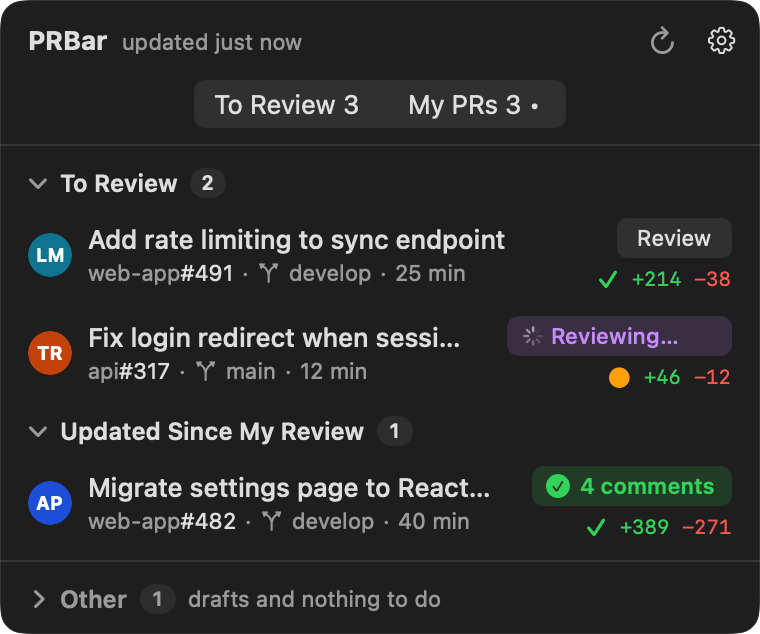
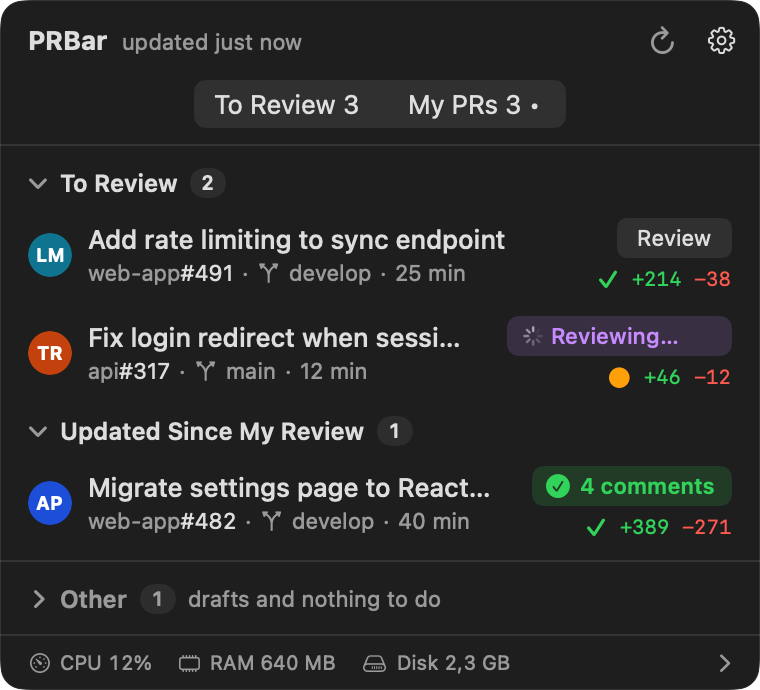
Capture the resources footer and PRBar Activity

diff --git a/Sources/PRBar/Snapshots/SnapshotFixtures.swift b/Sources/PRBar/Snapshots/SnapshotFixtures.swift
@@ -636,3 +636,42 @@ extension SnapshotFixtures {
         return session
     }
 }
+
+// MARK: - Recursos (spec I)
+
+extension SnapshotFixtures {
+    private static let megabyte: UInt64 = 1_048_576
+
+    /// El pie del popover y PRBar Activity: CPU 12 %, RAM 640 MB, un review corriendo (claude y git).
+    var resourceUsage: ResourceUsage {
+        let review = ProcessActivity.review("acme/api#317")
+        let processes = [
+            ProcessUsage(pid: 501, name: "PRBar", activity: nil, cpuPercent: 2, memoryBytes: 180 * Self.megabyte,
+                         startedAt: date(days: -1), isApp: true),
+            ProcessUsage(pid: 9123, name: "claude", activity: review, cpuPercent: 9, memoryBytes: 410 * Self.megabyte,
+                         startedAt: date(minutes: -3), isApp: false),
+            ProcessUsage(pid: 9188, name: "git", activity: review, cpuPercent: 1, memoryBytes: 50 * Self.megabyte,
+                         startedAt: date(minutes: -3), isApp: false),
+        ]
+        return ResourceUsage(cpuPercent: 12, memoryBytes: 640 * Self.megabyte, processes: processes, sampledAt: now)
+    }
+
+    /// 2,3 GB: worktrees 1,1 GB (acme/api activo, acme/web-app huérfano), updater 900 MB, historial 210 MB, logs 60 MB,
+    /// datos 30 MB.
+    var diskUsage: DiskUsage {
+        let mb: Int64 = 1_000_000
+        let worktrees = "/private/var/folders/xy/T/PRBar/worktrees"
+        let support = "/Users/sam/Library/Application Support/PRBar"
+        return DiskUsage(items: [
+            DiskItem(path: "\(worktrees)/api-317-1800000000-1a2b3c4d", bytes: 640 * mb, kind: .worktrees, state: .active,
+                     repo: "acme/api", clone: "/Users/sam/Code/api", title: "api-317-1800000000-1a2b3c4d"),
+            DiskItem(path: "/Users/sam/Code/worktrees/web-app-475-respond-0a0b0c0d", bytes: 460 * mb, kind: .worktrees,
+                     state: .orphan, repo: "acme/web-app", clone: "/Users/sam/Code/web-app", title: "web-app-475-respond-0a0b0c0d"),
+            DiskItem(path: "\(support)/source/.build", bytes: 700 * mb, kind: .updater, state: .cache, title: "Updater builds"),
+            DiskItem(path: "\(support)/source", bytes: 200 * mb, kind: .updater, state: .data, title: "Updater clone"),
+            DiskItem(path: "\(support)/history", bytes: 210 * mb, kind: .history, state: .data, title: "History"),
+            DiskItem(path: "/Users/sam/Library/Logs/PRBar", bytes: 60 * mb, kind: .logs, state: .data, title: "Logs"),
+            DiskItem(path: support, bytes: 30 * mb, kind: .appData, state: .data, title: "Settings and state"),
+        ], scannedAt: now)
+    }
+}

diff --git a/Sources/PRBarCore/ResourceMonitor.swift b/Sources/PRBarCore/ResourceMonitor.swift
@@ -22,6 +22,8 @@ public final class ResourceMonitor: ObservableObject {
     private var samplingTask: Task<Void, Never>?
     private var previous: ProcessSample?
     private var diskTask: Task<Void, Never>?
+    /// Modo de capturas: los números quedan fijos (no se muestrea ni se escanea nada real).
+    private var frozen = false
 
     public init(sampler: ProcessSampler, registry: ProcessRegistry = .shared, interval: Duration = .seconds(2),
                 diskScan: @escaping @Sendable () async -> DiskUsage) {
@@ -35,6 +37,7 @@ public final class ResourceMonitor: ObservableObject {
 
     /// `consumer`: "popover" o "activity".
     public func setVisible(_ consumer: String, _ visible: Bool) {
+        guard !frozen else { return }
         if visible { consumers.insert(consumer) } else { consumers.remove(consumer) }
         if consumers.isEmpty {
             samplingTask?.cancel()
@@ -56,7 +59,7 @@ public final class ResourceMonitor: ObservableObject {
     }
 
     public func refreshDisk(force: Bool) {
-        guard diskTask == nil else { return }
+        guard diskTask == nil, !frozen else { return }
         if !force, let disk, Date().timeIntervalSince(disk.scannedAt) < Self.diskMinInterval { return }
         scanningDisk = true
         let scan = diskScan
@@ -88,6 +91,15 @@ public final class ResourceMonitor: ObservableObject {
         disk = result
         onDisk?(result)
         return result
+    }
+
+    /// Modo de capturas: números fijos, sin muestrear ni escanear.
+    public func applySnapshotState(usage: ResourceUsage, disk: DiskUsage) {
+        frozen = true
+        samplingTask?.cancel()
+        samplingTask = nil
+        self.usage = usage
+        self.disk = disk
     }
 
     private func startSampling() {

diff --git a/Sources/PRBarTests/ResourceMonitorTests.swift b/Sources/PRBarTests/ResourceMonitorTests.swift
@@ -61,6 +61,24 @@ enum ResourceMonitorTests {
             try await Task.sleep(for: .milliseconds(100))
             try expectEqual(scans.count, 2)
         },
+        TestCase("resources: con datos de captura no muestrea ni escanea") {
+            let info = FakeProcessInfo()
+            info.children = [1: []]
+            info.set(1, cpu: 0, memory: 1)
+            let scans = ScanCounter()
+            let monitor = await monitor(info, scans: scans)
+            let usage = ResourceUsage(cpuPercent: 12, memoryBytes: 640, processes: [], sampledAt: t0)
+            await MainActor.run {
+                monitor.applySnapshotState(usage: usage, disk: DiskUsage(items: [], scannedAt: t0))
+                monitor.setVisible("popover", true)
+                monitor.refreshDisk(force: true)
+            }
+            try await Task.sleep(for: .milliseconds(100))
+            try expectEqual(info.statCalls, 0)
+            try expectEqual(scans.count, 0)
+            let shown = await MainActor.run { monitor.usage }
+            try expectEqual(shown, usage)
+        },
         TestCase("resources: el umbral avisa una vez al cruzarlo hacia arriba") {
             var crossing = DiskWarningState()
             let gb: Int64 = 1_000_000_000

diff --git a/Sources/PRBar/Snapshots/SnapshotMode.swift b/Sources/PRBar/Snapshots/SnapshotMode.swift
@@ -97,6 +97,10 @@ private final class SnapshotSession {
         try await settings()
         try await notification()
         try await updateWindow()
+        let activity = try makeModel("activity", snapshot: fixtures.snapshot)
+        try await window("activity", title: "PRBar Activity", size: NSSize(width: 720, height: 640)) {
+            ActivityWindow(model: activity, monitor: activity.resources)
+        }
         return written
     }
 
@@ -139,6 +143,7 @@ private final class SnapshotSession {
         )
         let model = AppModel(services: services, startsServices: false)
         model.applySnapshotState(tools: SnapshotFixtures.tools, ghAccounts: SnapshotFixtures.ghAccounts, launchAtLogin: true)
+        model.resources.applySnapshotState(usage: fixtures.resourceUsage, disk: fixtures.diskUsage)
         return model
     }
 

diff --git a/Sources/PRBarCore/ProcessSampling.swift b/Sources/PRBarCore/ProcessSampling.swift
@@ -73,6 +73,17 @@ public struct ProcessUsage: Codable, Equatable, Sendable, Identifiable {
     public var startedAt: Date?
     public var isApp: Bool
 
+    public init(pid: Int32, name: String, activity: ProcessActivity?, cpuPercent: Double, memoryBytes: UInt64,
+                startedAt: Date?, isApp: Bool) {
+        self.pid = pid
+        self.name = name
+        self.activity = activity
+        self.cpuPercent = cpuPercent
+        self.memoryBytes = memoryBytes
+        self.startedAt = startedAt
+        self.isApp = isApp
+    }
+
     public var id: Int32 { pid }
     /// Los trabajos remotos (Plan 14) se muestran "on <host>" y sin CPU/RAM locales.
     public var remoteHost: String? { activity?.host }

diff --git a/docs/screenshots/README.md b/docs/screenshots/README.md
@@ -20,7 +20,7 @@ Every screen comes in `-light` and `-dark`, at 2x:
 | File | What it shows |
 | --- | --- |
 | `menubar-icon` | The menu bar icon with a badge of 5, on a menu-bar-like strip |
-| `popover` | The popover's To Review tab (selected; My PRs shows "3 •"): To Review (one idle, one "Reviewing…"), Updated Since My Review (ready, 4 comments), Other collapsed |
+| `popover` | The popover's To Review tab (selected; My PRs shows "3 •"): To Review (one idle, one "Reviewing…"), Updated Since My Review (ready, 4 comments), Other collapsed; at the bottom the resources footer (CPU 12%, RAM 640 MB, Disk 2.3 GB) |
 | `popover-mine` | The My PRs tab: My PRs with Feedback (Changes requested, Respond), Ready to Merge (one ready, one blocked) and Waiting for Review (collapsed) |
 | `popover-empty` | The To Review tab with nothing to review ("Nothing to review 🎉"), Other collapsed |
 | `popover-empty-mine` | The My PRs tab with nothing to do ("No PRs of yours need anything"), Waiting for Review collapsed |
@@ -33,8 +33,9 @@ Every screen comes in `-light` and `-dark`, at 2x:
 | `respond-chat` | Respond, ready to push, with the chat open: a reply drafted for a reviewer and a change to the fixes’ code |
 | `merge-window` | The Merge window: description, reviews, checks, unresolved conversations, files, and the bar with the method, the head and "Squash and Merge" |
 | `merge-chat` | The Merge window with the read-only chat open |
+| `activity` | PRBar Activity: CPU, RAM and Disk tiles, what's running now by task (a review with its `claude` and `git`, with Stop), disk by category (active and orphaned worktrees by repo, update clone and builds, logs and history) and Clean Up |
 | `history` | The History window with 6 reviews and responses, one selected |
-| `settings-general`, `settings-claude`, `settings-instructions`, `settings-accounts`, `settings-repos`, `settings-slack` | Each Settings tab, configured |
+| `settings-general` (with the Disk warning), `settings-claude`, `settings-instructions`, `settings-accounts`, `settings-repos`, `settings-slack` | Each Settings tab, configured |
 | `notification` | **An illustration** of the "Review Ready" notification, not a capture of the real macOS banner |
 
 Notes on fidelity (the windows are drawn offscreen and never shown):
